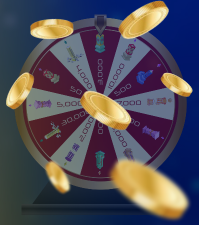
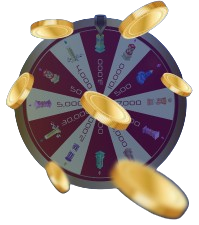
UI overhaul

diff --git a/src/components/Home/AnimatedBackground.tsx b/src/components/Home/AnimatedBackground.tsx
@@ -5,7 +5,7 @@ import { API_URL } from '../../utils'
 import Leaderboard from '../Leaderboard';
 import madTapIsto from '../../assets/madtapisto.png';
 import omniLogo from '../../assets/omniLogo.svg';
-import centralCee from '../../assets/centralCeely.png'
+import centralCee from '../../assets/centralCee.png'
 import WheelSpin from '../WheelSpin/WheelSpin';
 import badge from '../../assets/badge.png';
 import referral from '../../assets/referral.png';
@@ -14,6 +14,7 @@ import ReferralPopup from '../ReferralPopup';
 import { toast } from 'react-toastify';
 import GoldCoinIcon from '../GoldCoinIcon';
 import RangeInput from '../RangeInput/RangeInput';
+import TimesIconRed from '../TimesIconRed';
 
 const brightColors = [
   { name: "Electric Lime", code: "#CCFF00" },
@@ -68,7 +69,7 @@ const AnimatedBackground = () => {
   const [pointsNo, setPointsNo] = useState(1);
   const [rangeValue, setRangeValue] = useState(66);
   const [bgGradient, setBgGradient] = useState('bg-gradient-to-r from-blue-500 via-purple-500 to-pink-500')
-  const [currentView, setCurrentView] = useState('play')
+  const [currentView, setCurrentView] = useState('')
   const [user, setUser] = useState<Telegram.InitDataUser | null>(null);
   const [gamePlayPoints, setGamePlayPoints] = useState(0)
   const [referralCode, setReferralCode] = useState('Not Available');
@@ -76,6 +77,7 @@ const AnimatedBackground = () => {
   const [leaderboardData, setLeaderboardData] = useState<any>([])
   const [startPlay, setStartPlay] = useState(false);
   const [playerLevel, setPlayerLevel] = useState('Rookie');
+  const [referralRewardDeets, setReferralRewardDeets] = useState<any>();
 
   // clipboard.js
   function copyToClipboard(value: any) {
@@ -182,10 +184,11 @@ const AnimatedBackground = () => {
   useEffect (() => {
     const fetchUserData = async () => {
       const getUserData = await axios.post(`${API_URL}/get-user-data`, {user})
-      //console.log({getUserData})
+      console.log({getUserData})
       setGamePlayPoints(getUserData?.data?.userData?.pointsNo)
       if (getUserData?.data?.userData?.referralCode) setReferralCode(getUserData?.data?.userData?.referralCode)
       if (getUserData?.data?.userData?.referralPoints) setReferralPoints(getUserData?.data?.userData?.referralPoints)
+      if (getUserData?.data?.userData?.referralRewardDeets) setReferralRewardDeets(getUserData?.data?.userData?.referralRewardDeets)
     }
     if (user) {
       fetchUserData();
@@ -230,7 +233,7 @@ const AnimatedBackground = () => {
             <img src={omniLogo} alt="" className="mx-auto w-full" />
           </div>
           <div>
-            <img src={centralCee} alt="" className="mx-auto w-full h-[40vh]" />
+            <img src={centralCee} alt="" className="mx-auto w-full h-[50vh]" />
           </div>
           <button className="py-2 px-6 rounded-md font-neuropol text-[#FFF] border border-[#FFF]" onClick={() => setStartPlay(!startPlay)}>
             Play
@@ -238,91 +241,74 @@ const AnimatedBackground = () => {
           <p className="font-neuropol text-[#FFF] flex justify-center items-center mx-auto w-auto text-center">Dive in to earn daily gold points</p>
         </div> :
         <>
-          {
-            currentView === 'play' &&
-            <div className="flex flex-col h-[80vh] gap-3 overflow-y-scroll">
-              <WheelSpin user={user} playerLevel={playerLevel} gamePlayPoints={gamePlayPoints} handleGamePointsUpdate={(e: any) => setGamePlayPoints(e)} />
-            </div>
-          }
+          
+          <div className="flex flex-col h-[80vh] gap-3 overflow-y-scroll">
+            <WheelSpin user={user} playerLevel={playerLevel} gamePlayPoints={gamePlayPoints} handleGamePointsUpdate={(e: any) => setGamePlayPoints(e)} />
+          </div>
 
           <div className="w-full mx-auto h-auto py-3 absolute bottom-0 fixed">
             <div className="flex flex-col items-center justify-center h-auto w-[90%] mx-auto rounded-tl-lg rounded-tr-lg font-neuropol py-3" style={{backgroundColor: 'rgba(255, 255, 255, 0.8)'}}>
+              <div className="flex w-full justify-end">
+                <div className="w-auto cursor-pointer pr-6" onClick={() => setCurrentView('')}>
+                  <TimesIconRed />
+                </div>
+              </div>
+              {
+                currentView === 'stats' &&
+                <div className="flex flex-col h-[50vh] overflow-y-scroll w-full">
+                  <div className="flex w-[90%] sm:w-[70%] md:w-[50%] mx-auto gap-2 my-3">
+                    <p className="flex items-center justify-center text-white w-full font-bold">Stats</p>
+                  </div>
+                  <p>Leaderboard</p>
+                </div>
+              }
               {
                 currentView === 'referrals' &&
-                <div className="flex flex-col h-[70vh] overflow-y-scroll justify-center items-center w-full">
+                <div className="flex flex-col h-[50vh] overflow-y-scroll w-full">
                   <div className="flex w-[90%] sm:w-[70%] md:w-[50%] mx-auto gap-2 my-3">
                     <div className="w-[40%]">
                     <button className="font-neuropol py-2 text-[#000] rounded text-xs w-full" style={{backgroundColor: 'rgba(255, 255, 255, 0.5)'}} onClick={() => {copyToClipboard(`https://t.me/mad_tap_bot?start=${referralCode}`)}}>Copy Link</button>
                     </div>
-                    <p className="flex items-center justify-start text-white w-[60%]">Invite</p>
+                    <p className="flex items-center justify-start text-white w-[60%] font-bold">Invite</p>
                   </div>
                   
-                  <div className="flex w-[90%] sm:w-[70%] md:w-[50%] mx-auto gap-2 my-3 rounded-md p-3" style={{backgroundColor: 'rgba(0, 0, 0, 0.56)'}}>
-                    <div className="w-[20%]">
-                      <img src={referral} alt="Referral" className="w-[5vh]" />
-                    </div>
-                    <div className="w-[80%] flex flex-col">
-                      <div className="flex justify-between">
-                        <div className="flex flex-col">
-                          <p className="text-white text-xs">5 invites</p>
-                          <div className="flex">
-                            <div className="w-full text-xs text-[#FFF]">50k Gold</div>
-                          </div>
-                        </div>
-                        <div className="flex justify-center items-center">
-                          <button className="font-neuropol px-4 py-2 bg-[#00B806] text-white text-xs rounded">Claim</button>
-                        </div>
-                      </div>
-                      <RangeInput rangeValue={referralPoints <= 5 ? (referralPoints/5) * 100 : 100} />
-                    </div>
-                  </div>
+                  
 
-                  <div className="flex w-[90%] sm:w-[70%] md:w-[50%] mx-auto gap-2 my-3 rounded-md p-3" style={{backgroundColor: 'rgba(0, 0, 0, 0.56)'}}>
-                    <div className="w-[20%]">
-                      <img src={referral} alt="Referral" className="w-[5vh]" />
-                    </div>
-                    <div className="w-[80%] flex flex-col">
-                      <div className="flex justify-between">
-                        <div className="flex flex-col">
-                          <p className="text-white text-xs">10 invites</p>
-                          <div className="flex">
-                            <div className="w-full text-xs text-[#FFF]">100k Gold</div>
-                          </div>
+                  {
+                    referralRewardDeets &&
+                    referralRewardDeets.map((deet: any) => (
+                      <div className="flex w-[90%] sm:w-[70%] md:w-[50%] mx-auto gap-2 my-3 rounded-md p-3" style={{backgroundColor: 'rgba(0, 0, 0, 0.56)'}}>
+                        <div className="w-[20%]">
+                          <img src={referral} alt="Referral" className="w-[5vh]" />
                         </div>
-                        <div className="flex justify-center items-center">
-                          <button className="font-neuropol px-4 py-2 bg-[#00B806] text-white text-xs rounded">Claim</button>
+                        <div className="w-[80%] flex flex-col">
+                          <div className="flex justify-between">
+                            <div className="flex flex-col">
+                              <p className="text-white text-xs">{deet.claimTreshold} invites</p>
+                              <div className="flex">
+                                <div className="w-full text-xs text-[#E8BC6A]">{deet.claimTreshold * 10000} Gold</div>
+                              </div>
+                            </div>
+                            <div className="flex justify-center items-center">
+                              {
+                                referralPoints >= deet.claimTreshold && !deet.rewardClaimed ?
+                                <button className="font-neuropol px-4 py-2 bg-[#00B806] text-white text-xs rounded">Claim</button> :
+                                <button className="font-neuropol px-4 py-2 text-white text-xs rounded"  style={{backgroundColor: 'rgba(255, 255, 255, 0.5)'}} disabled>Claim</button>
+                              }
+                            </div>
+                          </div>
+                          <RangeInput rangeValue={referralPoints <= deet.claimTreshold ? (referralPoints/deet.claimTreshold) * 100 : 100} />
                         </div>
                       </div>
-                      <RangeInput rangeValue={referralPoints <= 10 ? (referralPoints/10) * 100 : 100} />
-                    </div>
-                  </div>
-
-                  <div className="flex w-[90%] sm:w-[70%] md:w-[50%] mx-auto gap-2 my-3 rounded-md p-3" style={{backgroundColor: 'rgba(0, 0, 0, 0.56)'}}>
-                    <div className="w-[20%]">
-                      <img src={referral} alt="Referral" className="w-[5vh]" />
-                    </div>
-                    <div className="w-[80%] flex flex-col">
-                      <div className="flex justify-between">
-                        <div className="flex flex-col">
-                          <p className="text-white text-xs">15 invites</p>
-                          <div className="flex">
-                            <div className="w-full text-xs text-[#FFF]">150k Gold</div>
-                          </div>
-                        </div>
-                        <div className="flex justify-center items-center">
-                          <button className="font-neuropol px-4 py-2 bg-[#00B806] text-white text-xs rounded">Claim</button>
-                        </div>
-                      </div>
-                      <RangeInput rangeValue={referralPoints <= 15 ? (referralPoints/15) * 100 : 100} />
-                    </div>
-                  </div>
+                    ))
+                  }
                 </div>
               }
               {
-                currentView === 'leaderboard' &&
-                <div className="flex flex-col h-[70vh] overflow-y-scroll justify-center items-center w-full">
+                currentView === 'earn' &&
+                <div className="flex flex-col h-[50vh] overflow-y-scroll w-full">
                   <div className="flex w-[90%] sm:w-[70%] md:w-[50%] mx-auto gap-2 my-3">
-                    <p className="flex items-center justify-start text-white w-[60%]">Earn</p>
+                    <p className="flex items-center justify-center text-white w-full font-bold">Earn</p>
                   </div>
                   
                   <div className="flex w-[90%] sm:w-[70%] md:w-[50%] mx-auto gap-2 my-3 rounded-md p-3" style={{backgroundColor: 'rgba(0, 0, 0, 0.56)'}}>
@@ -385,7 +371,7 @@ const AnimatedBackground = () => {
               }
               <div className="flex w-full">
                 <div className="flex flex-col gap-1 items-center justify-center cursor-pointer text-xs border-r-[#FFF] px-1 h-full text-[#FFF] w-1/3" onClick={() => {
-                  setCurrentView('play')
+                  setCurrentView('stats')
                 }}>
                   <img src={badge} alt="Badge" className="w-[5vh]" />
                   <span>Stats</span>
@@ -397,7 +383,7 @@ const AnimatedBackground = () => {
                   <span>Invite</span>
                 </div>
                 <div className="flex flex-col gap-1 items-center justify-center cursor-pointer text-xs px-1 h-full border-l-[#FFF] text-[#FFF] w-1/3" onClick={() => {
-                  setCurrentView('leaderboard')
+                  setCurrentView('earn')
                 }}>
                   <img src={task} alt="Task" className="w-[5vh]" />
                   <span>Earn</span>

diff --git a/src/components/TimesIconRed.tsx b/src/components/TimesIconRed.tsx
@@ -1,0 +1,15 @@
+import React, { FC } from "react";
+
+interface Props {
+  fill?: string;
+}
+
+const TimesIconRed: FC<Props> = ({ fill = "#FDFDFD" }) => {
+  return (
+    <svg width="14" height="14" viewBox="0 0 14 14" fill="none" xmlns="http://www.w3.org/2000/svg">
+      <path d="M6.99967 0.332031C3.31967 0.332031 0.333008 3.3187 0.333008 6.9987C0.333008 10.6787 3.31967 13.6654 6.99967 13.6654C10.6797 13.6654 13.6663 10.6787 13.6663 6.9987C13.6663 3.3187 10.6797 0.332031 6.99967 0.332031ZM9.35301 8.64535C9.54634 8.83868 9.54634 9.15872 9.35301 9.35205C9.25301 9.45205 9.12634 9.4987 8.99967 9.4987C8.87301 9.4987 8.74634 9.45205 8.64634 9.35205L6.99967 7.70536L5.35301 9.35205C5.25301 9.45205 5.12634 9.4987 4.99967 9.4987C4.87301 9.4987 4.74634 9.45205 4.64634 9.35205C4.45301 9.15872 4.45301 8.83868 4.64634 8.64535L6.29301 6.9987L4.64634 5.35205C4.45301 5.15872 4.45301 4.83868 4.64634 4.64535C4.83968 4.45201 5.15967 4.45201 5.35301 4.64535L6.99967 6.29203L8.64634 4.64535C8.83968 4.45201 9.15967 4.45201 9.35301 4.64535C9.54634 4.83868 9.54634 5.15872 9.35301 5.35205L7.70634 6.9987L9.35301 8.64535Z" fill="#EF2C5B"/>
+    </svg>
+  );
+};
+
+export default TimesIconRed;

diff --git a/src/components/WheelSpin/wheelSpin.css b/src/components/WheelSpin/wheelSpin.css
@@ -1,7 +1,7 @@
 /* src/components/wheelSpin.css */
 .wheel-container {
-    width: 225px;
-    height: 225px;
+    width: 275px;
+    height: 275px;
     position: relative;
   }
   
